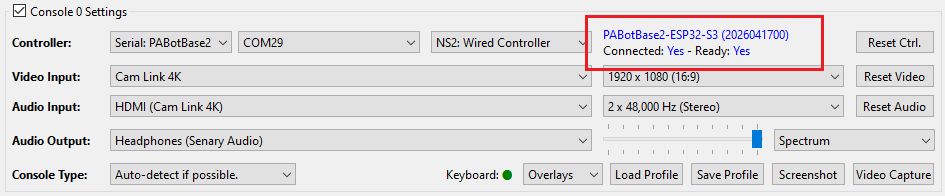
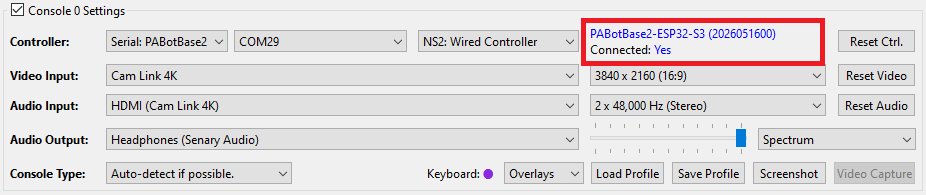
Status indicator. Make procon default for ESP32-S3.

diff --git a/docs/SetupGuide/Controllers/Controller-ESP32-S3.md b/docs/SetupGuide/Controllers/Controller-ESP32-S3.md
@@ -97,7 +97,17 @@ Make sure you have everything else setup so that it looks like this:
 
 If not, you should go back to the [general setup guide](../index.md) and start over.
 
-### Step 1: Install UART drivers (potentially)
+
+### Step 1: Enable "Pro Controller Wired Communication".
+
+Go into your Switch settings and enable the following option. This step is required for wired Pro Controllers and Joycons.
+
+<img src="../../Images/Controllers/NS-ProControllerEnable.jpg">
+
+For those of you revisiting this page, you will notice that this step is new. This is because we have changed the default controller from the 3rd party wired controller to the official Pro Controller since it has more features.
+
+
+### Step 2: Install UART drivers (potentially)
 
 Depending on exactly which ESP32-S3 model you bought, you may need to install UART drivers.
 
@@ -113,7 +123,7 @@ Install the appropriate driver for it:
 Only do this step if you do not see ESP32-S3 show up in device manager as a serial (COM) device.
 
 
-### Step 2: Flash the firmware to the ESP32.
+### Step 3: Flash the firmware to the ESP32.
 
 **Flash the ESP32:**
 
@@ -145,7 +155,17 @@ Only do this step if you do not see ESP32-S3 show up in device manager as a seri
     - Pressing either the `EN` or `RESET` button on the ESP32-S3.
     - Unplugging both USB cables and plugging them back in.
 
-### Step 3: Connect the ESP32-S3 to the Computer Control program
+
+### Step 4: Navigate to the Grip Menu
+
+This step isn't strictly needed for wired controllers since they can connect from almost anywhere. But this tutorial will use the grip menu anyway since it's easiest to see the controllers on the Switch.
+
+To get there from the Switch Home screen: `Controllers` (button next to the Settings gear) -> `Change Grip/Order`
+
+<img src="../Images/GripMenu3.png">
+
+
+### Step 5: Connect the ESP32-S3 to the Computer Control program
 
 1. At the top for the "Controller" option, click the dropdown and select `Serial: PABotBase2` (Make sure you choose `Serial: PABotBase2` and not `Serial: PABotBase`!)
 2. In the next dropdown, select your serial device. On Windows it will be something like `COM3`.
@@ -156,23 +176,25 @@ If everything worked correctly, it will look like this:
 
 <img src="../Images/ESP32-S3/ControllerSetup-ESP32-S3-Connected-Cropped.png">
 
-### Step 4: Navigate your Switch to where it will accept a new controller.
 
-The ESP32-S3 behaves like a real wired controller. So it can only connect if your Switch is ready for it.
+### Step 6: Connect the ESP32-S3 to the Switch.
 
-Places where the Switch will accept a new controller:
+1. In the 3rd dropdown, choose "NS1: Wired Pro Controller".
+2. Click the video feed to activate the keyboard controls.
+3. Press ENTER on your keyboard.
 
-1. The grip menu.
-2. The Switch home or settings.
-3. In a game when no other controllers are connected.
-
-<img src="../Images/GripMenu.jpg">
-
-Press ENTER on your keyboard to connect the controller. By default ENTER is mapped to the A button on the controller. Pressing any button on a wired controller will connect it to the Switch.
+You should now see a controller show up on the Switch.
 
 <img src="../Images/ESP32-S3/ControllerSetup-ESP32-S3-Connected.jpg">
 
-### Step 5: Test the connection
+**Status Indicator:**
+
+- The 3 colored dots should match the colors of the controller as shown in the Switch. This helps to distinguish controllers if you have multiple of them. You can change the colors in the `Nintendo Switch -> Framework Settings` menu.
+- The four alpha-numeric characters after `Paired:` are the last 2 bytes of the MAC address of the Switch that the controller is paired with.
+- The 4 vertical lines after `Connected:` are the player lights that are normally found on a real controller.
+
+
+### Step 7: Test the connection
 
 You can control your Switch from the keyboard. Click on the video display to activate the keyboard controls. Then try pressing some buttons. You can view the keyboard -> controller mapping by clicking on the "keyboard layout" at the bottom left corner of the program.
 
@@ -196,12 +218,8 @@ You will notice that there are 7 controller options:
 
 Click on the link for detailed documentation for the controller type. "None" simply idles the ESP32-S3 so it isn't trying to connect to a Switch. The others tell the ESP32-S3 to act as that controller respectively. Setting to "None" is a convenient way to disconnect the ESP32-S3 so you can connect your physical controller.
 
-Note that the Wired Pro Controller and Joycon controllers require enabling an additional option in the Switch settings:
 
-<img src="../../Images/Controllers/NS-ProControllerEnable.jpg">
-
-
-### Step 6: You are done!
+### Step 8: You are done!
 
 If keyboard commands are working (along with video and audio), you are done!
 

diff --git a/docs/SetupGuide/Controllers/Controller-ESP32-WROOM-MacOS.md b/docs/SetupGuide/Controllers/Controller-ESP32-WROOM-MacOS.md
@@ -1,4 +1,4 @@
-# Espressif ESP32-WROOM (MacOS)
+# Espressif ESP32 (MacOS)
 
 This setup uses an ESP32 microcontroller to emulate a wireless controller. It can emulate both left and right joycons as well as the wireless pro controller. Since this covers all the controller types, an ESP32 will be able to run nearly our entire repertoire of programs for the Nintendo Switch.
 
@@ -180,11 +180,13 @@ In the 3rd dropdown, choose "NS1: Wireless Pro Controller".
 
 After 5 seconds, you should see a controller pop-up in the Grip menu on the Switch. If the controller doesn't show up, then press the `EN` or `RESET` button on the ESP32 board, then click "Reset Ctrl." and wait another 5 seconds. Alternatively, unplug/replug the ESP32. Lastly, try rebooting the Switch since sometimes it can get into a state where it refuses to accept controllers.
 
-The controller colors are randomized and should match the color icons in the status indicator. This helps to distinguish controllers if you have multiple of them. You can change the colors in the `Nintendo Switch -> Framework Settings` menu.
-
-The 4 vertical lines after `Connected:` are the player lights that are normally found on a real controller.
-
 <img src="../Images/Mac/esp32-controller-connected.png">
+
+**Status Indicator:**
+
+- The 3 colored dots should match the colors of the controller as shown in the Switch. This helps to distinguish controllers if you have multiple of them. You can change the colors in the `Nintendo Switch -> Framework Settings` menu.
+- The four alpha-numeric characters after `Paired:` are the last 2 bytes of the MAC address of the Switch that the controller is paired with.
+- The 4 vertical lines after `Connected:` are the player lights that are normally found on a real controller.
 
 
 ### Step 6: Test the connection

diff --git a/docs/SetupGuide/Controllers/Controller-ESP32-WROOM.md b/docs/SetupGuide/Controllers/Controller-ESP32-WROOM.md
@@ -1,4 +1,4 @@
-# Espressif ESP32-WROOM
+# Espressif ESP32
 
 **Video tutorial:** Pokemon Automation Wireless setup with ESP32: [https://youtu.be/YzGyQQOGjl8](https://youtu.be/YzGyQQOGjl8)
 
@@ -172,11 +172,13 @@ In the 3rd dropdown, choose "NS1: Wireless Pro Controller".
 
 After 5 seconds, you should see a controller pop-up in the Grip menu on the Switch. If the controller doesn't show up, then press the `EN` or `RESET` button on the ESP32 board, then click "Reset Ctrl." and wait another 5 seconds. Alternatively, unplug/replug the ESP32. Lastly, try rebooting the Switch since sometimes it can get into a state where it refuses to accept controllers.
 
-The controller colors are randomized and should match the color icons in the status indicator. This helps to distinguish controllers if you have multiple of them. You can change the colors in the `Nintendo Switch -> Framework Settings` menu.
-
-The 4 vertical lines after `Connected:` are the player lights that are normally found on a real controller.
-
 <img src="../Images/ESP32/ControllerSetup-ESP32-WROOM-Ready-Annotated.png">
+
+**Status Indicator:**
+
+- The 3 colored dots should match the colors of the controller as shown in the Switch. This helps to distinguish controllers if you have multiple of them. You can change the colors in the `Nintendo Switch -> Framework Settings` menu.
+- The four alpha-numeric characters after `Paired:` are the last 2 bytes of the MAC address of the Switch that the controller is paired with.
+- The 4 vertical lines after `Connected:` are the player lights that are normally found on a real controller.
 
 
 ### Step 6: Test the connection

diff --git a/docs/SetupGuide/Controllers/Controller-PicoW-USB.md b/docs/SetupGuide/Controllers/Controller-PicoW-USB.md
@@ -137,11 +137,13 @@ In the 3rd dropdown, choose "NS1: Wireless Pro Controller".
 
 After a few seconds, you should see a controller pop-up in the Grip menu on the Switch. If not, try rebooting the Pico W by pressing the `Bootsel` button or be unplugging and replugging it. Lastly, try rebooting the Switch since sometimes it can get into a state where it refuses to accept controllers.
 
-The controller colors are randomized and should match the color icons in the status indicator. This helps to distinguish controllers if you have multiple of them. You can change the colors in the `Nintendo Switch -> Framework Settings` menu.
-
-The 4 vertical lines after `Connected:` are the player lights that are normally found on a real controller.
-
 <img src="../Images/PicoW/ControllerSetup-PicoW-USB-Ready-Annotated.jpg">
+
+**Status Indicator:**
+
+- The 3 colored dots should match the colors of the controller as shown in the Switch. This helps to distinguish controllers if you have multiple of them. You can change the colors in the `Nintendo Switch -> Framework Settings` menu.
+- The four alpha-numeric characters after `Paired:` are the last 2 bytes of the MAC address of the Switch that the controller is paired with.
+- The 4 vertical lines after `Connected:` are the player lights that are normally found on a real controller.
 
 
 ### Step 5: Test the connection
